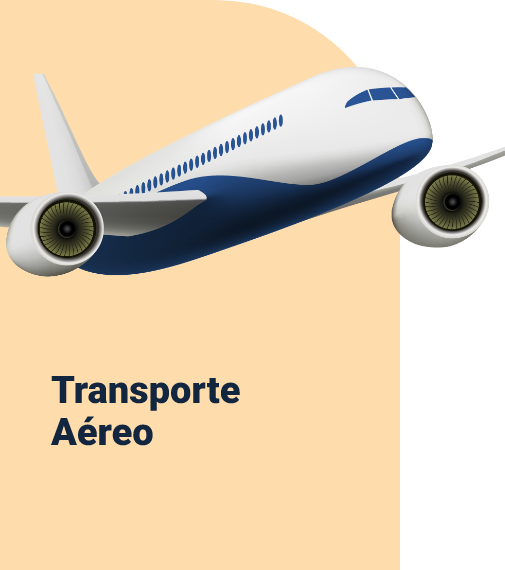
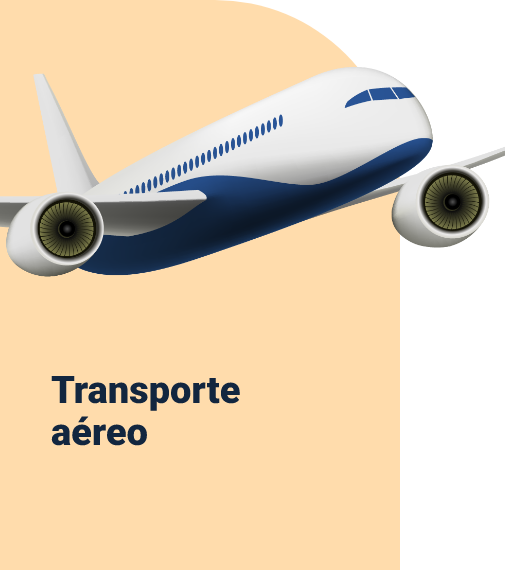
Corrección de hallazgos

Changed region(s): [[0.0891, 0.7158, 0.3267, 0.8053]]

diff --git a/src/views/Tema4.vue b/src/views/Tema4.vue
@@ -28,13 +28,13 @@
       figcaption Nota. Adaptado del Ministerio de Transporte (2019).
     .row.mb-5
       .col-lg-7
-        a.anexo.mb-4.mb-lg-0(href="https://www.ani.gov.co/article/plan-maestro-de-transporte-2015-2035-el-horizonte-de-colombia-vargas-lleras-21832" target="_blank")
+        a.anexo.mb-4.mb-lg-0(href="https://www.mintransporte.gov.co/publicaciones/9443/transporte-en-cifras/" target="_blank").h-100
           .anexo__icono
             img(src="@/assets/template/icono-link.svg")
           .anexo__texto
             p 
               b Enlace web. 
-              | Nota. Adaptado del Ministerio de Transporte (2019).  https://www.mintransporte.gov.co/publicaciones/9443/transporte-en-cifras/
+              | Nota. Adaptado del Ministerio de Transporte (2019).https://www.mintransporte.gov.co/publicaciones/9443/transporte-en-cifras/
     .titulo-sexto.color-acento-contenido
       h5 Movimiento promedio de carga en Colombia por año %
     .row.justify-content-center.mb-5
@@ -60,7 +60,7 @@
           img.mb-3(src='@/assets/curso/img90.svg', alt='Texto que describa la imagen')
       .col-lg-10
         h5 Empaque 
-        p Cabe anotar que las palabras empaque y embalaje suelen ser muy fáciles de confundir, ya que las dos pertenecen a una misma categoría o sector, pero son diferentes, el empaque es la presentación comercial de un producto, mientras el embalaje es la función de almacenar, proteger, conservar y transportar varias unidades del mismo producto en grandes cantidades.
+        p Existen diferentes tipos de empaques para los productos que van a ser movidos en una carga de un lugar a otro, y se caracterizan por el material del que están hechos. A continuación, se presentan cada tipo de empaque.
     TabsB.color-acento-contenido.mb-5
       .py-4.py-md-5(titulo="Empaque de vidrio" :icono="require('@/assets/curso/img91.svg')")
         .row
@@ -110,7 +110,7 @@
         .row
           .col-md-6.mb-4.mb-md-0
             h4 Empaque plástico 
-            p Su uso es de gran importancia para el transporte de largas distancias, productos de grandes tamaños y pesados; es un embalaje muy resistente que permite la protección del contenido; sin embargo, es un empaque de alto costo.
+            p Nada sustentable debido a su poca capacidad de reciclaje; sin embargo, gracias a su resistencia se puede utilizar varias veces. Es muy usado para empacar alimentos, aceites, productos de limpieza y de belleza.
 
           .col-md-6
             figure
@@ -146,7 +146,7 @@
                 img(src='@/assets/curso/img107.svg', alt='Texto que describa la imagen')
           
         h3.text-center Embalaje secundario
-        p.text-center Brinda protección y facilita la comercialización del producto a una mayor escala. Generalmente se usan cajas de cartón (en algunos casos de plástico), como ejemplo está la leche; un brik individual sería el embalaje primario y la caja de cartón que contiene el six-pack representaría el embalaje secundario. 
+        p.text-center Brinda protección y facilita la comercialización del producto a una mayor escala. Generalmente se usan cajas de cartón (en algunos casos de plástico), como ejemplo está la leche; un brik individual sería el embalaje primario y la caja de cartón que contiene el six pack representaría el embalaje secundario. 
 
 
       .col-md.tarjeta.color-secundario.p-5

diff --git a/src/views/Tema5.vue b/src/views/Tema5.vue
@@ -57,10 +57,10 @@
         .bloque-texto-b.color__before--secundario.p-2.mb-5
           .bloque-texto-b__texto
             p.mb-0 Fortalece los avances del país en materia de vías, aeropuertos, puertos y ferrocarriles, identificando las necesidades de conectividad en cada uno de los 32 departamentos del país, con el fin de construir una metodología basada en criterios objetivos que brinden soluciones efectivas y eficientes.  Lo anterior, se puede consultar en la página de la ANI (Agencia Nacional de Infraestructura), no olvide revisar en detalle los anexos. 
-        a.anexo.mb-4.mb-lg-0(href="https://youtu.be/SV1SmPLOWkE" target="_blank")
+        a.anexo.mb-4.mb-lg-0(href="https://www.ani.gov.co/article/plan-maestro-de-transporte-2015-2035-el-horizonte-de-colombia-vargas-lleras-21832" target="_blank")
           .anexo__icono
             img(src="@/assets/template/icono-link.svg")
-          .anexo__texto
+          .anexo__texto.texto-desbordado
             p 
               b Enlace web.
               | Agencia Nacional de Infraestructura. (2015). Plan maestro de transporte 2015-2035, el horizonte de Colombia: Vargas Lleras. 

diff --git a/src/views/Tema1.vue b/src/views/Tema1.vue
@@ -58,7 +58,7 @@
       .col-lg-6
         .tarjeta-hover-imagenes  
           .contenedor__texto--derecha 
-            h6.mb-0.px-3.py-1.text-white Avion o Helicóptero    
+            h6.mb-0.px-3.py-1.text-white Avión o Helicóptero    
           .tarjeta-hover-imagenes__imagen: img(src='@/assets/curso/img12.jpg', alt='Texto que describa la imagen')
           .tarjeta-hover-imagenes__textos.color__contenido.d-flex.justify-content-center.align-items-center.p-5
             .elementos
@@ -337,9 +337,9 @@
     #t_1_3.titulo-segundo
       h2 1.3  Tipología de vehículos, pesos y dimensiones permitidas 
     p.mb-5 A continuación, se enuncia la clasificación correspondiente.
-      br
-      br
-      |En Colombia este tipo de vehículos 
+    .titulo-sexto.color-acento-contenido
+      h5 Clasificación de los vehiculos de carga 
+    p En Colombia este tipo de vehículos 
       b se clasifica de acuerdo con el número de ejes que contenga, 
       | basado en la norma técnica nacional e internacional. Para ello se utiliza una serie de letras así:   
     .row.justify-content-center.align-items-center.mb-5

diff --git a/src/views/Tema2.vue b/src/views/Tema2.vue
@@ -95,7 +95,7 @@ export default {
       },
       {
         texto:
-          'La ISO maneja, regula y estandariza las medidas de un contenedor. Existen algunos de 20 y 40 pies de largo, con un volumen interno de 33 m3 y de 66 m3. Tienen una capacidad en peso desde 20 a 30 toneladas.',
+          'La ISO maneja, regula y estandariza las medidas de un contenedor. Existen algunos de 20 y 40 pies de largo, con un volumen interno de 33 m<sup>3</sup> y de 66 m<sup>3</sup>. Tienen una capacidad en peso desde 20 a 30 toneladas.',
         imagen: require('@/assets/curso/img58.jpg'),
         // leyendaImagen: 'Leyenda de la imagen',
       },

diff --git a/src/styles/_variables.sass b/src/styles/_variables.sass
@@ -72,8 +72,8 @@ $color-link: $color-primario
 $color-link-hover: darken($color-primario, 25%)
 
 // Color Botones ---------------------------------------
-$color-btn-fondo: $color-acento-botones
-$color-btn-texto: $color-primario
+$color-btn-fondo: $color-acento-contenido
+$color-btn-texto: $color-sistema-texto
 
 // Colores banner --------------------------------------
 $color-banner-fondo: $color-primario

diff --git a/src/config/global.js b/src/config/global.js
@@ -283,7 +283,7 @@ export default {
           'Centro Industrial del Diseño y la Manufactura Regional Santander',
       },
       {
-        nombre: 'Nombre',
+        nombre: 'Magdi Khalifah Gamboa',
         cargo: 'Validación de diseño y contenido',
         centro:
           'Centro Industrial del Diseño y la Manufactura Regional Santander',

diff --git a/src/styles/_custom.sass b/src/styles/_custom.sass
@@ -193,4 +193,6 @@
   &_img2
 .lista-ol--cuadro__vineta
   color: $color-sistema-texto !important
-  font-weight: bold !important    
+  font-weight: bold !important   
+.anexo__texto
+  overflow-wrap: break-word
